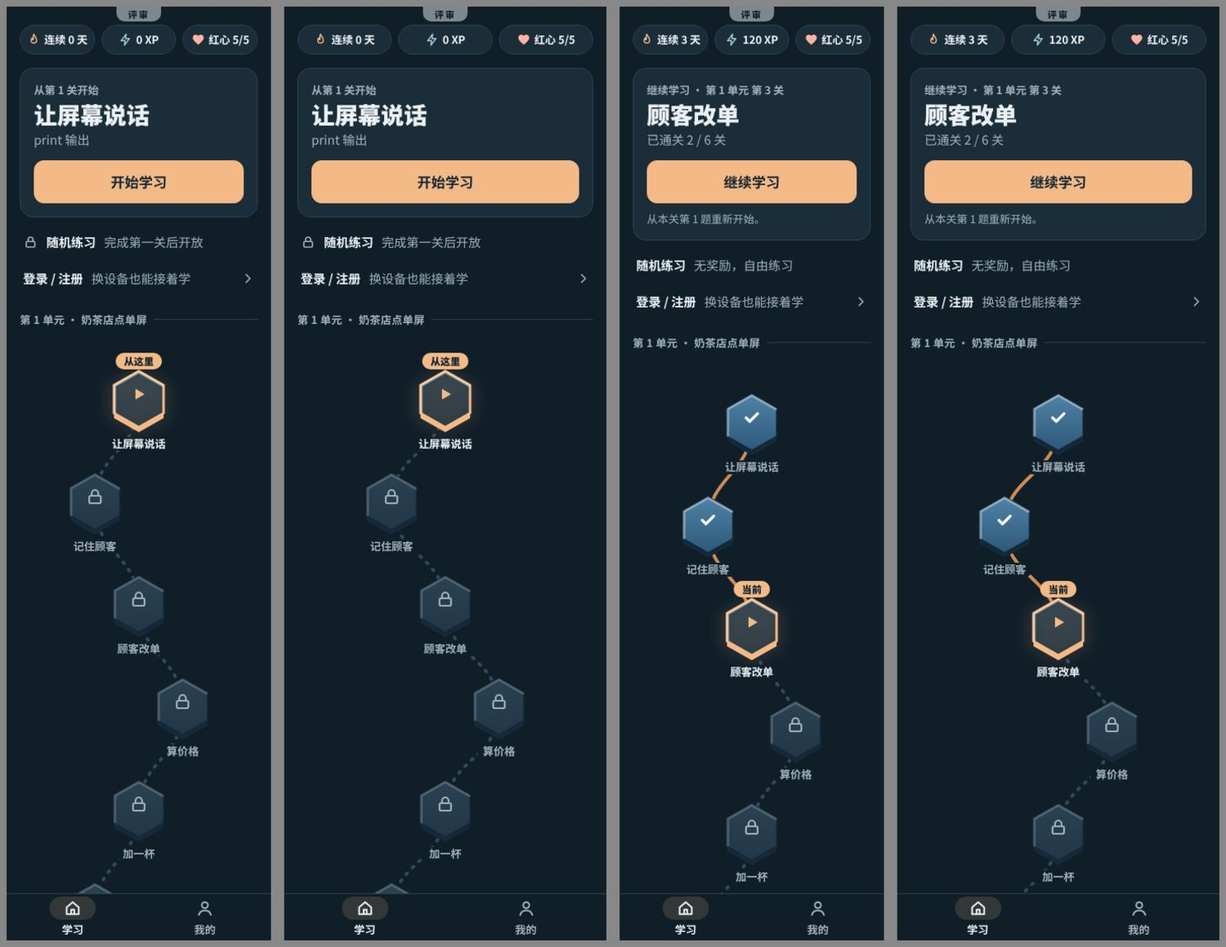
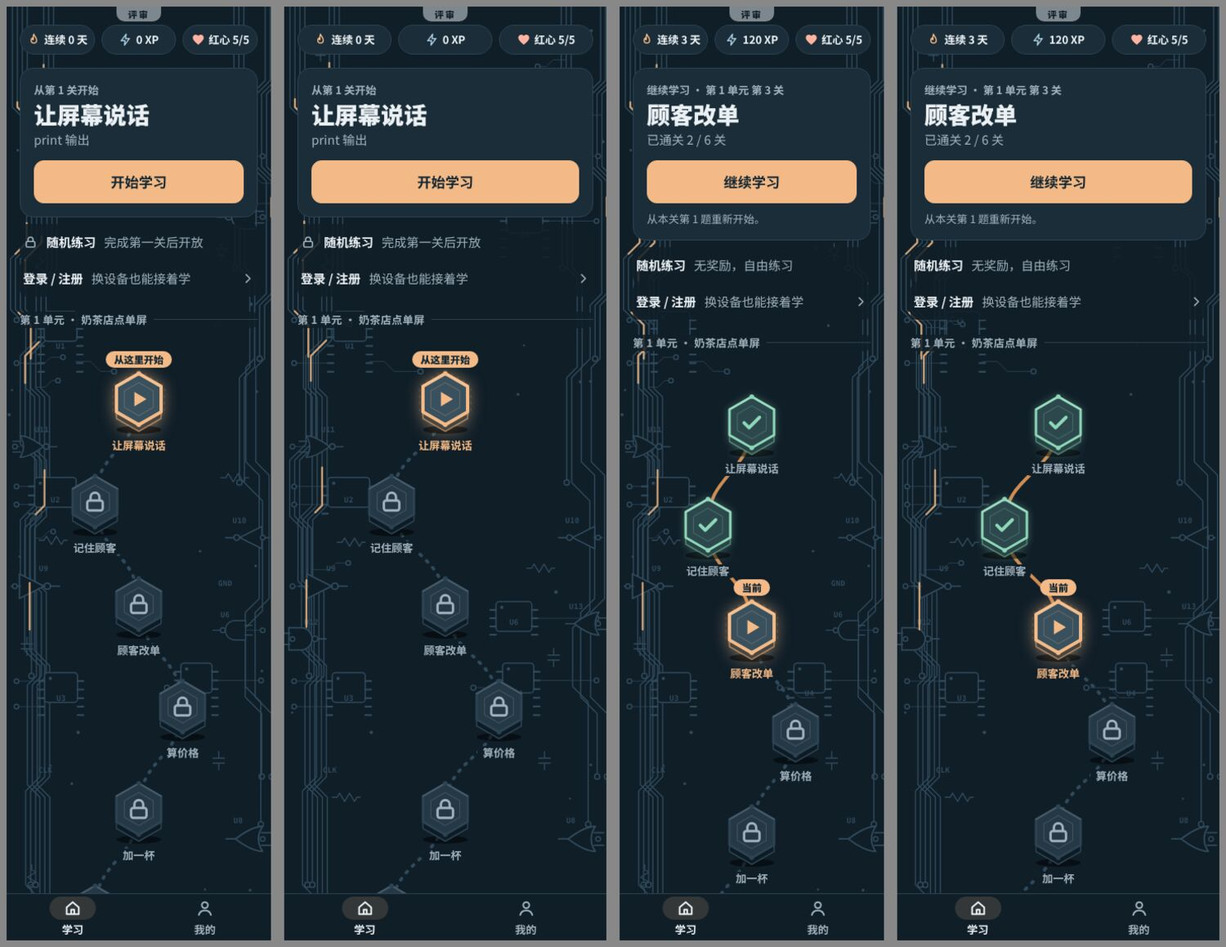
设计：流程原型采用立体六角形节点、加回并加复杂背景电路图、角色名保持小码
- 节点换成 sonnet/design-ink-3d-1 的 hexNode（投影、厚度、面、内六边形、顶边高光、焊点；当前关铜色虚线环+发光，已通关绿色发光）——老大 11-13 02:06 指定
- 背景电路图：总线束（45° 拐角）、芯片、6 种逻辑门、阻容二极管、过孔、测试点、标注、行进脉冲；课内只留淡的边缘版；减少动态下脉冲隐藏
- 角色名保持「小码」（老大 02:06：不要碎碎）；提示按钮 aria-label 与文档同步改回
- 文档新增修订记录与条目 M3/M6；拼图重出；60 项检查全过，320/390 线路对节点偏差 0px

Claude-Session: https://claude.ai/code/session_01PV3FXumWa85dHsm4VFEBLY

diff --git a/spikes/2026-11-13-flow-prototype/index.html b/spikes/2026-11-13-flow-prototype/index.html
@@ -18,6 +18,7 @@
   --hex-lock-top:#EDE9DF; --hex-lock-bot:#DCD7CA; --hex-lock-side:#C9C3B4;
   --hex-cur-top:#FFFDF8; --hex-cur-bot:#F5E6D8; --hex-cur-side:#B75532;
   --glow:rgba(183,85,50,.55);
+  --side:#CFC8B8; --hi:rgba(255,255,255,.85); --shadow:rgba(23,43,58,.16);
 }
 :root[data-theme=dark] {
   --bg:#101E28; --card:#1A2D39; --card2:#223747; --line:#2C4352; --fg:#EAF0F3; --muted:#9FB1BC;
@@ -29,6 +30,7 @@
   --hex-lock-top:#2A4252; --hex-lock-bot:#223747; --hex-lock-side:#16293A;
   --hex-cur-top:#22394A; --hex-cur-bot:#182C3B; --hex-cur-side:#F3BA87;
   --glow:rgba(243,186,135,.6);
+  --side:#0D1B24; --hi:rgba(255,255,255,.14); --shadow:rgba(0,0,0,.5);
 }
 * { box-sizing:border-box; -webkit-tap-highlight-color:transparent; }
 html,body { margin:0; height:100%; background:var(--bg); color:var(--fg); font:17px/1.5 "PingFang SC","Noto Sans CJK SC",system-ui,sans-serif; }
@@ -74,16 +76,11 @@ html.rm .btn:active:not(:disabled) { transform:none; outline:3px solid var(--cop
 .path { position:relative; margin:0 auto; width:390px; max-width:100%; }
 .path svg.trace { position:absolute; left:0; top:0; width:100%; height:100%; pointer-events:none; }
 .path svg.trace path { vector-effect:non-scaling-stroke; }
-.node { position:absolute; width:76px; transform:translateX(-50%); display:flex; flex-direction:column; align-items:center; gap:4px; text-align:center; }
+.node { position:absolute; width:84px; transform:translateX(-50%); display:flex; flex-direction:column; align-items:center; gap:4px; text-align:center; }
 .node .lab { background:var(--bg); padding:0 6px; border-radius:6px; font-size:13px; font-weight:700; line-height:1.3; white-space:nowrap; }
 .node.locked .lab { color:var(--muted); font-weight:600; }
 .node.done .lab { color:var(--muted); }
-.node .hexwrap { position:relative; width:64px; height:78px; display:grid; place-items:center; }
-.node .glow { position:absolute; left:-12px; top:-8px; width:88px; height:94px; opacity:.5; filter:blur(9px); pointer-events:none; }
-.node .glow polygon { fill:var(--glow); }
-html:not(.rm) .node.current .glow { animation:breathe 2.4s ease-in-out infinite; }
-@keyframes breathe { 50% { opacity:.18; } }
-.node .tag-now { position:absolute; top:-20px; left:50%; transform:translateX(-50%); font-size:12px; font-weight:800; padding:1px 10px; border-radius:10px; background:var(--copper); color:var(--on-copper); white-space:nowrap; }
+.node .tag-now { position:absolute; top:-22px; left:50%; transform:translateX(-50%); z-index:2; font-size:12px; font-weight:800; padding:1px 10px; border-radius:10px; background:var(--copper); color:var(--on-copper); white-space:nowrap; }
 .tabbar { flex:none; display:flex; border-top:1.5px solid var(--line); background:var(--bg); padding-bottom:env(safe-area-inset-bottom); }
 .tab { flex:1; height:56px; display:flex; flex-direction:column; align-items:center; justify-content:center; gap:2px; font-size:13px; font-weight:600; color:var(--muted); }
 .tab.on { color:var(--fg); }
@@ -141,6 +138,54 @@ html:not(.rm) .fb-xp { animation:xp .18s ease-out .12s backwards; }
 .feedbar .heartline { display:flex; align-items:center; gap:6px; color:var(--bad); font-weight:600; }
 .feedbar .btn { margin-top:12px; }
 
+
+/* ===== 立体六角形关卡节点（取自 sonnet/design-ink-3d-1 的 hexNode：投影 + 厚度 + 面 + 内六边形 + 顶边高光 + 上下焊点） ===== */
+.node { color:var(--muted); }
+.node .hexslot { position:relative; width:72px; height:80px; }
+.hexnode { display:block; overflow:visible; }
+.hex-shadow { fill:var(--shadow); }
+.hex-side { fill:var(--side); stroke:var(--line); stroke-width:1.5; stroke-linejoin:round; }
+.hex-body { fill:var(--card); stroke:var(--line); stroke-width:3; stroke-linejoin:round; }
+.hex-facet { fill:none; stroke:currentColor; stroke-opacity:.22; stroke-width:1.2; stroke-linejoin:round; }
+.hex-hi { fill:none; stroke:var(--hi); stroke-width:1.8; stroke-linecap:round; stroke-linejoin:round; }
+.hex-pad { fill:var(--line); }
+.hex-ring { fill:none; stroke:var(--copper); stroke-width:2; stroke-linejoin:round; stroke-dasharray:3 5; opacity:.35; }
+html:not(.rm) .hex-ring { animation:ring 2.4s ease-in-out infinite; }
+@keyframes ring { 50% { opacity:.1; } }
+.node.locked .hex-body { fill:var(--locked); }
+.node.done { color:var(--ok); }
+.node.done .hex-body { stroke:var(--ok); fill:color-mix(in srgb,var(--ok) 16%,var(--card)); }
+.node.done .hex-side { fill:color-mix(in srgb,var(--ok) 22%,var(--side)); stroke:var(--ok); stroke-opacity:.45; }
+.node.done .hex-pad { fill:var(--ok); }
+.node.done .hexnode { filter:drop-shadow(0 0 5px color-mix(in srgb,var(--ok) 35%,transparent)); }
+.node.current { color:var(--copper-text); }
+.node.current .hex-body { stroke:var(--copper); stroke-width:4; fill:color-mix(in srgb,var(--primary) 22%,var(--card)); }
+.node.current .hex-side { fill:color-mix(in srgb,var(--copper) 26%,var(--side)); stroke:var(--copper); stroke-opacity:.55; }
+.node.current .hex-pad { fill:var(--copper); }
+.node.current .hexnode { filter:drop-shadow(0 0 9px color-mix(in srgb,var(--copper) 55%,transparent)); }
+.node:active .hexnode { transform:scale(.97); }
+html.rm .node:active .hexnode { transform:none; filter:brightness(1.12); }
+
+/* ===== 背景电路图：固定在底层，随页面类型切换，不随内容滚动 ===== */
+#bg { position:absolute; inset:0; z-index:0; pointer-events:none; overflow:hidden; }
+#bg svg { width:100%; height:100%; display:block; }
+#view { position:relative; z-index:1; flex:1; min-height:0; display:flex; flex-direction:column; }
+.cb .trace { fill:none; stroke:var(--trace); stroke-width:1.4; stroke-linecap:round; stroke-linejoin:round; }
+.cb .trace.thin { stroke-width:1; opacity:.75; }
+.cb .pad { fill:var(--bg); stroke:var(--trace); stroke-width:1.5; }
+.cb .dot { fill:var(--trace); }
+.cb .chip { fill:var(--bg); stroke:var(--trace); stroke-width:1.5; stroke-linejoin:round; }
+.cb .pin { fill:none; stroke:var(--trace); stroke-width:2.2; stroke-linecap:round; }
+.cb .gate { fill:var(--bg); stroke:var(--trace); stroke-width:1.5; stroke-linejoin:round; stroke-linecap:round; }
+.cb .part { fill:none; stroke:var(--trace); stroke-width:1.4; stroke-linecap:round; stroke-linejoin:round; }
+.cb text { fill:var(--trace); font:700 9px ui-monospace,Menlo,monospace; letter-spacing:.3px; }
+.cb .pulse { fill:none; stroke:var(--copper); stroke-width:2.4; stroke-linecap:round; stroke-linejoin:round; stroke-dasharray:5 95; stroke-dashoffset:5; opacity:.8; animation:flow 7s linear infinite; }
+@keyframes flow { from { stroke-dashoffset:5; } to { stroke-dashoffset:-95; } }
+html.rm .cb .pulse { display:none; }
+.bg-paused .cb .pulse, .bg-paused .hex-ring { animation-play-state:paused; }
+.row, .unit { background:color-mix(in srgb,var(--bg) 86%,transparent); border-radius:8px; }
+.unit::after { background:var(--line); }
+
 /* ---------- 通关占位 ---------- */
 .done-page { align-items:center; justify-content:center; text-align:center; gap:14px; padding:24px; }
 .done-page h2 { margin:0; font-size:28px; font-weight:800; }
@@ -181,10 +226,11 @@ html.show-tags [data-tag=fixed]::after { background:var(--ok); color:var(--bg); 
 /* ===== 评审条目：状态 = 当前仍存在 / 已修复 / 本次提案（对照 main 92f57d9） ===== */
 const ITEMS = [
   { id:"W1", st:"proposal", t:"欢迎页压成一屏", d:"现状 3 屏、点 3 次才到地图；这里 1 屏 1 个主按钮。" },
-  { id:"W2", st:"proposal", t:"欢迎页文案", d:"「在手机上学习 Python」「每天几分钟，点选闯关」。不写「全程点选」「每关约 2 分钟」。角色名统一为「碎碎」（改名已批；正式版源码里仍是「小码」，落地时要一起改）。" },
+  { id:"W2", st:"proposal", t:"欢迎页文案", d:"「在手机上学习 Python」「每天几分钟，点选闯关」。不写「全程点选」「每关约 2 分钟」。角色名保持「小码」（老大 11-13 02:06 明确：不改名；与 #35 / SPEC 里「小码→碎碎」那条决策冲突，需产品官更正）。" },
   { id:"M1", st:"proposal", t:"地图「下一步」主卡", d:"新用户「开始学习」，老用户关名 +「继续学习」。关内位置 main 不保存（退出后从第 1 题重来），所以继续 = 当前关第 1 题；关内恢复未模拟。" },
   { id:"M2", st:"proposal", t:"随机练习 / 登录降级成一行", d:"现状：随机练习是吸顶整宽灰块，登录是虚线整宽卡。" },
-  { id:"M3", st:"exists", t:"六边形路径（保留）", d:"沿用老大 11-04 方向；本次提案只加厚度、高光、当前关通电发光。" },
+  { id:"M3", st:"proposal", t:"立体六角形关卡节点", d:"老大 11-13 02:06 指定用截图里的这个：取自分支 sonnet/design-ink-3d-1 的 hexNode（投影、厚度、面、内六边形、顶边高光、上下焊点；当前关铜色虚线环 + 发光，已通关绿色发光）。main 现在是扁平六边形。" },
+  { id:"M6", st:"proposal", t:"背景电路图（加回并加复杂）", d:"首版原型漏掉了背景电路，已加回：每侧 2 束总线（3–4 根平行线、45° 拐角）、芯片（排针、1 脚点、位号）、6 种逻辑门、电阻 / 电容 / 二极管、过孔与测试点、VCC / GND / CLK 标注、行进脉冲（减少动态下隐藏）。布局种子固定，随宽度生成；固定在底层，不随内容滚动；课内只留很淡的边缘版。" },
   { id:"M4", st:"proposal", t:"顶栏带单位", d:"「连续 0 天」「0 XP」「红心 5/5」。现状只有图标 + 数字，说明要长按/悬停才有。" },
   { id:"M5", st:"proposal", t:"单元标题降亮度和面积", d:"现状整块实色单元卡；这里改成一行小字分隔线。" },
   { id:"Q1", st:"fixed", t:"选项竖排整宽、代码不折行", d:"main 的 #60：.choices.code 单列 + 横向滚动，原型沿用，不算新成果。" },
@@ -195,7 +241,7 @@ const ITEMS = [
   { id:"F3", st:"proposal", t:"连对提示不遮挡", d:"连对 ≥3 时在反馈头里加一枚「连对 N」小标，行内，不浮层。" },
   { id:"F4", st:"proposal", t:"答错措辞「差一点，再看看」", d:"现状标题「不对哦」。" },
   { id:"F5", st:"exists", t:"答错讲原因 + 正确答案 + 红心", d:"main 已有：错因（why）、「正确答案」、「红心 -1（剩 N 颗），这题稍后再做一次」。原型保留，不算新成果。" },
-  { id:"F6", st:"proposal", t:"答错只留一种主要动效", d:"只留选中卡抖 2 次（±5px，220ms）；碎碎只换静态表情；红心直接更新数值，不再缩放（正式版现有红心缩放动画）。现状卡抖 3px 160ms。" },
+  { id:"F6", st:"proposal", t:"答错只留一种主要动效", d:"只留选中卡抖 2 次（±5px，220ms）；小码只换静态表情；红心直接更新数值，不再缩放（正式版现有红心缩放动画）。现状卡抖 3px 160ms。" },
   { id:"F7", st:"proposal", t:"继续按钮统一铜橙", d:"现状答错时「继续」是红色危险按钮；这里改铜橙，反馈色只用在面板描边和标题。" },
   { id:"R1", st:"exists", t:"减少动态效果", d:"main 已有 prefers-reduced-motion。原型：开启后取消位移、缩放、飞行、发光呼吸、高光扫过、按钮按下的 1px 下移（按下改用描边表示），只保留颜色变化。" },
 ];
@@ -223,17 +269,147 @@ function mascot(size=52, mood="happy") {
   return `<svg width="${size}" height="${size}" viewBox="0 0 100 100" aria-hidden="true"><path d="M16 14a8 8 0 0 1 8-8h46l20 20v56a8 8 0 0 1-8 8H24a8 8 0 0 1-8-8z" fill="#FFF8EC" stroke="#172B3A" stroke-width="4"/><path d="M70 6v14a6 6 0 0 0 6 6h14z" fill="#B75532"/><path d="M33 40q-6 8 0 16M67 40q6 8 0 16" fill="none" stroke="#172B3A" stroke-width="5" stroke-linecap="round"/>${mouth}</svg>`;
 }
 /* 六边形节点：厚度（下沉一层深色）+ 渐变面 + 左上高光边 + 当前关通电发光 */
-function hex(kind) {
-  const P = "32,2 62,19 62,53 32,70 2,53 2,19", P2 = "32,8 62,25 62,59 32,76 2,59 2,25";
-  const id = "g"+Math.random().toString(36).slice(2,7);
-  const icon = kind==="done" ? `<g transform="translate(20 18)" style="color:#fff">${I.check(24)}</g>` : kind==="locked" ? `<g transform="translate(20 18)" style="color:var(--muted)">${I.lock(24)}</g>` : `<g transform="translate(20 18)" style="color:var(--copper-text)">${I.play(24)}</g>`;
-  const [top,bot,side] = kind==="done" ? ["--hex-top","--hex-bot","--hex-side"] : kind==="locked" ? ["--hex-lock-top","--hex-lock-bot","--hex-lock-side"] : ["--hex-cur-top","--hex-cur-bot","--hex-cur-side"];
-  return `<svg width="64" height="78" viewBox="0 0 64 78" aria-hidden="true"><defs><linearGradient id="${id}" x1="0" y1="0" x2="0" y2="1"><stop offset="0" style="stop-color:var(${top})"/><stop offset="1" style="stop-color:var(${bot})"/></linearGradient></defs>
-  <polygon points="${P2}" style="fill:var(${side})"/>
-  <polygon points="${P}" fill="url(#${id})" style="stroke:var(${side});stroke-width:${kind==="current"?3:1.5};stroke-linejoin:round"/>
-  <polyline points="3,52 3,20 32,3.500 61,20" fill="none" style="stroke:var(--hex-hi)" stroke-width="3" stroke-linecap="round" stroke-linejoin="round" opacity="${kind==="locked"?.5:1}"/>
-  ${icon}</svg>`;
+function hexNode(kind) {
+  const ic = kind==="done" ? `<path d="m5 12.500 4.500 4.500L19 7.500" fill="none" stroke="currentColor" stroke-width="3" stroke-linecap="round" stroke-linejoin="round"/>`
+    : kind==="locked" ? `<g fill="none" stroke="currentColor" stroke-width="2.200" stroke-linecap="round" stroke-linejoin="round"><rect x="5" y="11" width="14" height="9" rx="2"/><path d="M8 11V8a4 4 0 0 1 8 0v3"/></g>`
+    : `<path d="M8 5.500v13l11-6.500z" fill="currentColor"/>`;
+  return `<svg viewBox="0 0 72 80" width="72" height="80" class="hexnode" aria-hidden="true">
+    ${kind==="current"?`<polygon points="36,1 67,19 67,53 36,71 5,53 5,19" class="hex-ring"/>`:""}
+    <ellipse cx="36" cy="73" rx="27" ry="5" class="hex-shadow"/>
+    <polygon points="9,51.5 36,67 63,51.5 63,59.5 36,75 9,59.5" class="hex-side"/>
+    <polygon points="36,5 63,20.5 63,51.5 36,67 9,51.5 9,20.5" class="hex-body"/>
+    <polygon points="36,16 53.5,26 53.5,46 36,56 18.5,46 18.5,26" class="hex-facet"/>
+    <polyline points="9,20.5 36,5 63,20.5" class="hex-hi"/>
+    <circle cx="36" cy="5" r="2.800" class="hex-pad"/><circle cx="36" cy="67" r="2.800" class="hex-pad"/>
+    <svg x="20" y="20" width="32" height="32" viewBox="0 0 24 24">${ic}</svg></svg>`;
 }
+
+/* ===== 背景电路图生成器（种子固定，布局稳定）：电源总线束 + 45° 拐角、芯片、逻辑门、电阻 / 电容 / 二极管、过孔、测试点、行进脉冲 ===== */
+function rngSeed(seed){ return ()=>{ seed|=0; seed=seed+0x6D2B79F5|0; let t=Math.imul(seed^seed>>>15,1|seed); t=(t+Math.imul(t^t>>>7,61|t))^t; return ((t^t>>>14)>>>0)/4294967296; }; }
+function circuitSVG(W, H, variant) {
+  const R = rngSeed(variant==="edge" ? 11 : 20261113), rr=(a,b)=>a+R()*(b-a), ri=(a,b)=>Math.floor(rr(a,b+1));
+  const edge = variant==="edge", M = Math.max(58, Math.min(112, W*.28));      // 左右边缘区的宽度
+  const out = [], boxes = [], pulses = [];
+  const f = n => (+n).toFixed(1);
+  const poly = pts => "M" + pts.map(p=>f(p[0])+" "+f(p[1])).join(" L");
+  const free = (x,y,w,h) => !boxes.some(b => x < b[0]+b[2]+6 && x+w+6 > b[0] && y < b[1]+b[3]+6 && y+h+6 > b[1]);
+  const claim = (x,y,w,h) => boxes.push([x,y,w,h]);
+  const mirror = side => x => side===0 ? x : W - x;
+  const refN = (()=>{ let n=0; return ()=>"U"+(++n); })();
+
+  /* 1) 总线束：每侧 2 束（边缘版 1 束），每束 3–4 根平行线，竖直走线、45° 斜拐；各线在不同高度收尾于焊盘 */
+  const lanes = [];  // 供后续支线接入：{side, pts}
+  for (const side of [0,1]) {
+    const bundles = edge ? [{x:7,n:2}] : [{x:7,n:4},{x:M*.50,n:3}];
+    bundles.forEach((bd,bi)=>{
+      const sp = 6, span = (bd.n-1)*sp, lim = M - span - 8;
+      let x = bd.x, y = -10; const base = [[x,y]];
+      while (y < H + 10) {
+        y += rr(60,150); base.push([x,y]);
+        let dx = (R()<.5?-1:1) * rr(10,22); if (x+dx < 4 || x+dx > lim) dx = -dx; if (x+dx < 4 || x+dx > lim) dx = 0;
+        if (dx) { x += dx; y += Math.abs(dx); base.push([x,y]); }
+      }
+      for (let k=0;k<bd.n;k++) {
+        const yEnd = R()<.35 ? H+20 : rr(H*.25, H*.95);
+        const pts = []; for (const p of base) { pts.push([mirror(side)(p[0]+k*sp*(side?-1:1)), p[1]]); if (p[1] >= yEnd) break; }
+        const last = pts[pts.length-1];
+        out.push(`<path class="trace" d="${poly(pts)}"/>`);
+        if (last[1] < H) out.push(`<circle class="pad" cx="${f(last[0])}" cy="${f(last[1])}" r="3.200"/>`);
+        lanes.push({side, pts});
+        if (k===1 && !edge) pulses.push(poly(pts));
+      }
+    });
+  }
+  if (edge) {
+    // 边缘版：再补几个过孔和一根脉冲，保持很淡
+    for (let i=0;i<7;i++) out.push(`<circle class="dot" cx="${f(R()<.5?rr(3,18):W-rr(3,18))}" cy="${f(rr(20,H-20))}" r="1.800"/>`);
+    return { svg:`<g class="cb">${out.join("")}${pulses.slice(0,3).map((d,i)=>`<path class="pulse" pathLength="100" d="${d}" style="animation-duration:${(8+i*2)}s;animation-delay:-${i*3}s"/>`).join("")}</g>`, n:out.length };
+  }
+
+  /* 2) 芯片（DIP）：随机落位在两侧边缘区，不重叠；左右排针，带「1 脚」点和位号；部分针脚拉线接到最近的总线 */
+  const chipPins = [];
+  for (let t=0, placed=0; t<90 && placed<(W<340?4:6); t++) {
+    const w = rr(34,52), h = rr(46,92), side = R()<.5?0:1;
+    const x = side===0 ? rr(M*.52, M-w-6) : W - rr(M*.52, M-6) ;
+    const x0 = side===0 ? x : x - w, y0 = rr(70, H-h-90);
+    if (!free(x0-8,y0,w+16,h)) continue; claim(x0-8,y0,w+16,h); placed++;
+    const n = Math.max(3, Math.floor(h/11)), step = h/(n+1);
+    out.push(`<rect class="chip" x="${f(x0)}" y="${f(y0)}" width="${f(w)}" height="${f(h)}" rx="4"/>`);
+    out.push(`<circle class="dot" cx="${f(x0+7)}" cy="${f(y0+7)}" r="2"/>`);
+    out.push(`<text x="${f(x0+w/2)}" y="${f(y0+h/2+3)}" text-anchor="middle">${refN()}</text>`);
+    for (let i=1;i<=n;i++) { const yy=y0+i*step; out.push(`<path class="pin" d="M${f(x0-7)} ${f(yy)}H${f(x0)}M${f(x0+w)} ${f(yy)}H${f(x0+w+7)}"/>`); }
+    const wireTo = (xFrom, dir, yy) => { const xTo = dir<0 ? 12 : W-12; out.push(`<path class="trace thin" d="M${f(xFrom)} ${f(yy)}H${f(xTo)}"/><circle class="pad" cx="${f(xTo)}" cy="${f(yy)}" r="2.800"/>`); };
+    if (side===0) { wireTo(x0-7, -1, y0+step*1); if (n>3) wireTo(x0-7, -1, y0+step*(n-1)); } else { wireTo(x0+w+7, 1, y0+step*2); }
+    chipPins.push([side===0?x0+w+7:x0-7, y0+step*2, side]);
+  }
+
+  /* 3) 逻辑门：AND / OR / NOT / NAND / NOR / XOR，带输入输出引线和位号，可水平翻转 */
+  const kinds = ["and","or","not","nand","nor","xor"];
+  for (let t=0, placed=0; t<120 && placed<7; t++) {
+    const kind = kinds[ri(0,kinds.length-1)], sc = rr(.95,1.3), gw = 34*sc, gh = 24*sc, side = R()<.5?0:1;
+    const x = side===0 ? rr(8, M-gw-14) : W - rr(gw+14, M-8), y = rr(60, H-gh-80);
+    if (!free(x-12,y-10,gw+24,gh+20)) continue; claim(x-12,y-10,gw+24,gh+20); placed++;
+    const flip = side===1, bubble = kind==="nand"||kind==="nor"||kind==="not";
+    const body = kind==="and"||kind==="nand" ? "M0 0H13a12 12 0 0 1 0 24H0z" : kind==="not" ? "M0 0L24 12L0 24z" : "M0 0Q10 0 26 12Q10 24 0 24Q8 12 0 0z";
+    const ow = kind==="not" ? 24 : kind==="and"||kind==="nand" ? 25 : 26;
+    const ins = kind==="not" ? [12] : [6,18];
+    let g = `<g transform="translate(${f(flip?x+gw+8:x-8)} ${f(y)}) scale(${flip?-sc:sc} ${sc})">`;
+    g += `<path class="gate" d="${body}"/>`;
+    if (kind==="xor") g += `<path class="part" d="M-4.500 0Q3.500 12 -4.500 24"/>`;
+    if (bubble) g += `<circle class="gate" cx="${ow+3.2}" cy="12" r="3"/>`;
+    for (const yy of ins) g += `<path class="trace" d="M-8 ${yy}H${kind==="xor"?-1:1}"/>`;
+    g += `<path class="trace" d="M${ow+(bubble?6.2:0)} 12H${ow+(bubble?6.2:0)+9}"/>`;
+    g += `</g>`;
+    out.push(g);
+    out.push(`<text x="${f(x+gw/2)}" y="${f(y-4)}" text-anchor="middle">${refN()}</text>`);
+    // 引线接到边缘的过孔
+    const yy = y + gh/2, edgeX = side===0 ? 10 : W-10;
+    out.push(`<path class="trace thin" d="M${f(side===0?x-8:x+gw+8)} ${f(yy)}H${f(edgeX)}"/><circle class="pad" cx="${f(edgeX)}" cy="${f(yy)}" r="2.800"/>`);
+  }
+
+  /* 4) 阻容元件：横向支线上的电阻、电容、二极管；有的是竖放 */
+  for (let t=0, placed=0; t<80 && placed<9; t++) {
+    const side = R()<.5?0:1, y = rr(40,H-40), x = side===0 ? rr(14, M-34) : W - rr(40, M), kind = ["r","c","d"][ri(0,2)];
+    const vertical = R()<.4, w = kind==="r" ? 34 : 22, bw = vertical ? 12 : w, bh = vertical ? w : 12;
+    if (!free(x-4,y-bh/2,bw+8,bh+8)) continue; claim(x-4,y-bh/2,bw+8,bh+8); placed++;
+    let d = "";
+    if (kind==="r") d = "M0 0h6l3 -5 6 10 6 -10 6 10 3 -5h4";
+    else if (kind==="c") d = "M0 0h8M8 -7v14M14 -7v14M14 0h8";
+    else d = "M0 0h6M6 -6v12l9 -6zM15 -6v12M15 0h7";
+    out.push(`<g transform="translate(${f(vertical?x+6:x)} ${f(vertical?y-w/2:y)}) ${vertical?"rotate(90)":""}"><path class="part" d="${d}"/></g>`);
+  }
+
+  /* 5) 横向走线 + 过孔网：从总线接出的短支线，带 45° 转角，末端是焊盘 / 测试点 */
+  for (const L of lanes.filter((_,i)=>i%2===0).slice(0,12)) {
+    const p = L.pts[Math.floor(R()*(L.pts.length-1))], q = L.pts[Math.min(L.pts.length-1, Math.floor(L.pts.indexOf(p)+1))];
+    if (!p || !q || Math.abs(q[0]-p[0])>1) continue;               // 只在竖直段上接支线
+    const y = rr(p[1], q[1]), dir = L.side===0 ? 1 : -1, len = rr(14, M*.55);
+    const x1 = p[0]+dir*len*.6, x2 = x1+dir*8, y2 = y+(R()<.5?-8:8), x3 = x2+dir*len*.4;
+    out.push(`<path class="trace thin" d="M${f(p[0])} ${f(y)}H${f(x1)}L${f(x2)} ${f(y2)}H${f(x3)}"/><circle class="pad" cx="${f(x3)}" cy="${f(y2)}" r="2.800"/>`);
+  }
+  for (let i=0;i<26;i++) { const x = R()<.5 ? rr(3, M) : W - rr(3, M), y = rr(10, H-10); if (free(x-3,y-3,6,6)) out.push(`<circle class="dot" cx="${f(x)}" cy="${f(y)}" r="${f(rr(1.200,2.200))}"/>`); }
+  // 测试点阵列：2×3 小焊盘
+  for (const side of [0,1]) { const bx = side===0 ? rr(M*.55, M-20) : W - rr(M*.55, M-8), by = rr(H*.55, H-110); if (!free(bx-4,by-4,28,22)) continue; claim(bx-4,by-4,28,22);
+    for (let a=0;a<3;a++) for (let b=0;b<2;b++) out.push(`<circle class="pad" cx="${f(bx+a*10)}" cy="${f(by+b*10)}" r="2.600"/>`);
+    out.push(`<text x="${f(bx)}" y="${f(by+28)}">TP${side+1}</text>`); }
+  // 电源 / 信号标注
+  for (const [t,fx,fy] of [["VCC",.06,.30],["GND",.80,.62],["CLK",.12,.82],["D0",.84,.22],["RST",.78,.90]]) { const x = W*fx, y = H*fy; if (free(x-4,y-10,34,14)) { claim(x-4,y-10,34,14); out.push(`<text x="${f(x)}" y="${f(y)}">${t}</text>`); } }
+  // 芯片间的连线脉冲：取芯片侧的若干总线 + 一条跨中间区域很淡的长线
+  for (const L of lanes.filter(l=>l.pts.length>3).slice(0,9)) pulses.push(poly(L.pts));
+  out.push(`<path class="trace thin" d="M${f(M-6)} ${f(H*.38)}H${f(M+12)}L${f(M+24)} ${f(H*.38+12)}H${f(W/2-30)}" opacity=".5"/><circle class="pad" cx="${f(W/2-30)}" cy="${f(H*.38+12)}" r="3"/>`);
+  out.push(`<path class="trace thin" d="M${f(W-M+6)} ${f(H*.74)}H${f(W-M-12)}L${f(W-M-24)} ${f(H*.74-12)}H${f(W/2+34)}" opacity=".5"/><circle class="pad" cx="${f(W/2+34)}" cy="${f(H*.74-12)}" r="3"/>`);
+  return { svg:`<g class="cb">${out.join("")}${pulses.slice(0,10).map((d,i)=>`<path class="pulse" pathLength="100" d="${d}" style="animation-duration:${(5.5+(i*1.7)%5).toFixed(1)}s;animation-delay:-${(i*2.3).toFixed(1)}s"/>`).join("")}</g>`, n:out.length };
+}
+let bgKey = "";
+function setBg(variant) {
+  const W = Math.round(host.clientWidth), H = Math.round(host.clientHeight), key = variant+W+"x"+H;
+  if (key === bgKey) return; bgKey = key;
+  const c = circuitSVG(W, H, variant);
+  $("#bg").innerHTML = `<svg viewBox="0 0 ${W} ${H}" preserveAspectRatio="none" aria-hidden="true" focusable="false">${c.svg}</svg>`;
+  window.__circuitCount = c.n;
+}
+addEventListener("resize", () => { clearTimeout(window.__rz); window.__rz = setTimeout(()=>{ bgKey=""; setBg(S.screen==="lesson"?"edge":"full"); }, 150); });
+document.addEventListener("visibilitychange", () => document.documentElement.classList.toggle("bg-paused", document.hidden));
 
 /* ===== 题目（取自 content/unit1.json 的 U1L1，原文） ===== */
 const Q = {
@@ -261,11 +437,11 @@ matchMedia("(prefers-reduced-motion: reduce)").addEventListener?.("change", appl
 let tt; function toast(m){ const e=$("#toast"); e.textContent=m; e.classList.add("on"); clearTimeout(tt); tt=setTimeout(()=>e.classList.remove("on"),1800); }
 
 /* ===== 渲染 ===== */
-const app = $("#app");
+const host = $("#app"); host.innerHTML = '<div id="bg" aria-hidden="true"></div><div id="view"></div>'; const app = $("#view");
 function go(screen) { S.ver++; S.checking = false; S.screen = screen; render(); }
 function render() {
   applyEnv();
-  const f = { welcome, map, lesson, done }[S.screen]; app.innerHTML = ""; f();
+  const f = { welcome, map, lesson, done }[S.screen]; app.innerHTML = ""; setBg(S.screen==="lesson"?"edge":"full"); f();
 }
 function el(html) { const t=document.createElement("template"); t.innerHTML=html.trim(); return t.content.firstChild; }
 
@@ -291,12 +467,12 @@ function map() {
     <button class="row" id="prac">${old?"":`<span style="color:var(--muted)">${I.lock(18)}</span>`}<b>随机练习</b><span>${old?"无奖励，自由练习":"完成第一关后开放"}</span><span class="sp"></span></button>
     <button class="row" id="log"><b>登录 / 注册</b><span>换设备也能接着学</span><span class="sp"></span>${I.chev(16)}</button></div>`;
   const xs = [195,130,195,260,195,130], dy = 124, y0 = 50, H = y0 + dy*5 + 130;
-  const pts = xs.map((x,i)=>[x, y0+i*dy+38]);
+  const pts = xs.map((x,i)=>[x, y0+i*dy+36]);
   const seg = (a,b)=>{ const m=(a[1]+b[1])/2; return `C ${a[0]} ${m}, ${b[0]} ${m}, ${b[0]} ${b[1]}`; };
   let full = `M ${pts[0][0]} ${pts[0][1]}`, lit = full;
   for (let i=1;i<pts.length;i++){ full += " "+seg(pts[i-1],pts[i]); if (i<=curIdx) lit += " "+seg(pts[i-1],pts[i]); }
   const nodes = LESSONS.map((n,i)=>{ const k = i<curIdx?"done":i===curIdx?"current":"locked";
-    return `<button class="node ${k}" data-i="${i}" style="left:${(xs[i]/390*100).toFixed(2)}%;top:${y0+i*dy}px" aria-label="${n}（${k==="done"?"已通关":k==="current"?"当前关":"未解锁"}）"><div class="hexwrap">${k==="current"?`<svg class="glow" viewBox="0 0 88 94"><polygon points="44,6 82,26 82,68 44,88 6,68 6,26"/></svg>`:""}${hex(k)}${k==="current"?`<span class="tag-now">${old?"当前":"从这里"}</span>`:""}</div><span class="lab">${n}</span></button>`; }).join("");
+    return `<button class="node ${k}" data-i="${i}" style="left:${(xs[i]/390*100).toFixed(2)}%;top:${y0+i*dy}px" aria-label="${n}（${k==="done"?"已通关":k==="current"?"当前关":"未解锁"}）"><div class="hexslot">${hexNode(k)}${k==="current"?`<span class="tag-now">${old?"当前":"从这里开始"}</span>`:""}</div><span class="lab">${n}</span></button>`; }).join("");
   const s = el(`<div class="screen"><div class="scroll">${hud}${hero}${rows}
     <div class="unit"${tagAttr("M5")}>第 1 单元 · 奶茶店点单屏</div>
     <div class="path" style="height:${H}px"${tagAttr("M3")}><svg class="trace" viewBox="0 0 390 ${H}" preserveAspectRatio="none" aria-hidden="true">
@@ -326,7 +502,7 @@ function lesson() {
     return `<button class="${cls}" data-i="${i}" ${fb?"disabled":""} aria-label="选项 ${"ABC"[i]}：${o.t.replace(/\n/g," 换行 ")}"><span class="abc">${"ABC"[i]}</span><span class="opt"><pre>${esc(o.t)}</pre></span><span class="fade" aria-hidden="true">›</span></button>`; }).join("");
   const code = q.code ? `<div class="code"><div class="ln">${q.code.split("\n").map((_,i)=>i+1).join("\n").replace(/\n/g,"<br>")}</div><pre>${hl(q.code)}</pre></div>` : "";
   const mood = fb && !fb.ok ? "care" : "happy";
-  const foot = fb ? feedbar() : `<div class="lessonfoot"><button class="mascot" id="hint" aria-label="让碎碎给个提示">${mascot(40, mood)}</button><button class="btn primary" id="check" ${S.sel==null||S.checking?"disabled":""}${tagAttr("Q3")}>${S.checking?"检查中":"检查"}</button></div>`;
+  const foot = fb ? feedbar() : `<div class="lessonfoot"><button class="mascot" id="hint" aria-label="让小码给个提示">${mascot(40, mood)}</button><button class="btn primary" id="check" ${S.sel==null||S.checking?"disabled":""}${tagAttr("Q3")}>${S.checking?"检查中":"检查"}</button></div>`;
   const s = el(`<div class="screen"><header class="lessonbar"><button class="icon-btn" id="x" aria-label="退出本关">${I.close()}</button>
     <div class="progress" role="progressbar" aria-valuenow="${pct}" aria-valuemin="0" aria-valuemax="100"><div class="fill ${S.sweepNow?"sweep":""}" style="width:${Math.max(4,prev)}%"${tagAttr("F1")}></div></div>
     <span class="hearts ${S.lostNow?"lost":""}" aria-label="红心 ${S.hearts}">${I.heart(22)}${S.hearts}</span></header>
@@ -343,7 +519,7 @@ function lesson() {
   const c=$("#check",s); if (c) c.onclick=()=>check(key);
   const cont=$("#cont",s); if (cont) cont.onclick=next;
 }
-function lesson_re(){ const sc=$(".scroll",app)?.scrollTop||0; app.innerHTML=""; lesson(); const n=$(".scroll",app); if(n) n.scrollTop=sc; }
+function lesson_re(){ setBg("edge"); const sc=$(".scroll",app)?.scrollTop||0; app.innerHTML=""; lesson(); const n=$(".scroll",app); if(n) n.scrollTop=sc; }
 function check(key) {
   const q=Q[key], o=q.opts[S.sel], ok=!!o.ok;
   S.prevPct = Math.round(S.solved / S.total * 100);

diff --git a/docs/design/flow-prototype-2026-11-13.md b/docs/design/flow-prototype-2026-11-13.md
@@ -25,10 +25,11 @@
 | 编号 | 状态 | 项 | 说明 |
 |---|---|---|---|
 | W1 | **本次提案** | 欢迎页压成一屏 | 现状 3 屏、点 3 次才到地图；这里 1 屏 1 个主按钮。 |
-| W2 | **本次提案** | 欢迎页文案 | 「在手机上学习 Python」「每天几分钟，点选闯关」。不写「全程点选」「每关约 2 分钟」。角色名统一为「碎碎」（改名已批；正式版源码里仍是「小码」，落地时要一起改）。 |
+| W2 | **本次提案** | 欢迎页文案 | 「在手机上学习 Python」「每天几分钟，点选闯关」。不写「全程点选」「每关约 2 分钟」。角色名保持「小码」（老大 11-13 02:06 明确：不改名；与 #35 / SPEC 里「小码→碎碎」那条决策冲突，需产品官更正）。 |
 | M1 | **本次提案** | 地图「下一步」主卡 | 新用户「开始学习」，老用户关名 +「继续学习」。关内位置 main 不保存（退出后从第 1 题重来），所以继续 = 当前关第 1 题；关内恢复未模拟。 |
 | M2 | **本次提案** | 随机练习 / 登录降级成一行 | 现状：随机练习是吸顶整宽灰块，登录是虚线整宽卡。 |
-| M3 | 当前仍存在 | 六边形路径（保留） | 沿用老大 11-04 方向；本次提案只加厚度、高光、当前关通电发光。 |
+| M3 | **本次提案** | 立体六角形关卡节点 | 老大 11-13 02:06 指定用截图里的这个：取自分支 sonnet/design-ink-3d-1 的 hexNode（投影、厚度、面、内六边形、顶边高光、上下焊点；当前关铜色虚线环 + 发光，已通关绿色发光）。main 现在是扁平六边形。 |
+| M6 | **本次提案** | 背景电路图（加回并加复杂） | 首版原型漏掉了背景电路，已加回：每侧 2 束总线（3–4 根平行线、45° 拐角）、芯片（排针、1 脚点、位号）、6 种逻辑门、电阻 / 电容 / 二极管、过孔与测试点、VCC / GND / CLK 标注、行进脉冲（减少动态下隐藏）。布局种子固定，随宽度生成；固定在底层，不随内容滚动；课内只留很淡的边缘版。 |
 | M4 | **本次提案** | 顶栏带单位 | 「连续 0 天」「0 XP」「红心 5/5」。现状只有图标 + 数字，说明要长按/悬停才有。 |
 | M5 | **本次提案** | 单元标题降亮度和面积 | 现状整块实色单元卡；这里改成一行小字分隔线。 |
 | Q1 | 已修复 | 选项竖排整宽、代码不折行 | main 的 #60：.choices.code 单列 + 横向滚动，原型沿用，不算新成果。 |
@@ -39,7 +40,7 @@
 | F3 | **本次提案** | 连对提示不遮挡 | 连对 ≥3 时在反馈头里加一枚「连对 N」小标，行内，不浮层。 |
 | F4 | **本次提案** | 答错措辞「差一点，再看看」 | 现状标题「不对哦」。 |
 | F5 | 当前仍存在 | 答错讲原因 + 正确答案 + 红心 | main 已有：错因（why）、「正确答案」、「红心 -1（剩 N 颗），这题稍后再做一次」。原型保留，不算新成果。 |
-| F6 | **本次提案** | 答错只留一种主要动效 | 只留选中卡抖 2 次（±5px，220ms）；碎碎只换静态表情；红心直接更新数值，不再缩放（正式版现有红心缩放动画）。现状卡抖 3px 160ms。 |
+| F6 | **本次提案** | 答错只留一种主要动效 | 只留选中卡抖 2 次（±5px，220ms）；小码只换静态表情；红心直接更新数值，不再缩放（正式版现有红心缩放动画）。现状卡抖 3px 160ms。 |
 | F7 | **本次提案** | 继续按钮统一铜橙 | 现状答错时「继续」是红色危险按钮；这里改铜橙，反馈色只用在面板描边和标题。 |
 | R1 | 当前仍存在 | 减少动态效果 | main 已有 prefers-reduced-motion。原型：开启后取消位移、缩放、飞行、发光呼吸、高光扫过、按钮按下的 1px 下移（按下改用描边表示），只保留颜色变化。 |
 
@@ -60,22 +61,28 @@
 按钮文字颜色以可读为准：浅色用白字、深色用深字，没有预先锁死白字。
 
 ## 修订记录（首轮评审后）
-- 欢迎页默认直达首题；角色名「小码」→「碎碎」（提示按钮的 aria-label 与说明）；继续入口说明改为「从本关第 1 题重新开始」。
+- 欢迎页默认直达首题；继续入口说明改为「从本关第 1 题重新开始」。
+- 角色名：一度改成「碎碎」，老大 11-13 02:06 要求**不要碎碎，就叫小码**，已改回；提示按钮 aria-label 与说明都是「小码」。
 - 老用户地图里随机练习已开放，去掉锁图标；新用户未开放仍显示锁。
 - 答错只留卡片抖动一种动效，红心直接更新数值（不再缩放）。
 - 减少动态效果下，按钮按下的 1px 下移也取消，改用描边表示按下（已读取计算样式确认：正常 `translateY(1px)`，减少动态 `none` + `outline: solid`）。
 - 补 320 宽地图截图，并**实测线路与节点对齐**：线路改为 x 随宽度拉伸、y 固定，量出每个节点中心与线路的水平偏差，320 与 390 全是 0px（首版线路是整体缩放，窄屏会和节点错位）。
 - 「继续」时序改为保留正式版节奏作对照：点「检查」→ 120ms 后揭示结果 → 280ms 后开放「继续」（减少动态下立即）。本轮不改这项行为。
 
+## 修订记录（老大 02:06–02:07 的两条）
+- **关卡节点换成立体六角形**：老大发了截图，指定用这个。源码是分支 `sonnet/design-ink-3d-1`（`a539935`）里的 `hexNode`——投影椭圆、厚度侧面、面、内六边形、顶边高光、上下焊点；当前关铜色虚线环 + 发光，已通关绿色发光，未解锁灰色加锁。原型里按同一结构和类名重做，色值用 main 的令牌（`--g-side`、`--g-hi`、`--g-shadow` 取自该分支）。main 现在是扁平六边形，所以这项标为「本次提案」。
+- **背景电路图加回并加复杂**：首版原型漏掉了它。新生成器（种子固定，布局稳定）：每侧 2 束总线（3–4 根平行线，竖直走线、45° 拐角，各线在不同高度收尾于焊盘）、DIP 芯片（排针、1 脚点、位号）、6 种逻辑门（AND / OR / NOT / NAND / NOR / XOR，可翻转）、电阻 / 电容 / 二极管、过孔、测试点阵列、VCC / GND / CLK / D0 / RST 标注、10 条行进脉冲（减少动态下隐藏）。固定在底层、不随内容滚动；课内只保留很淡的边缘版（总线 + 过孔），不干扰读题。
+- **角色名保持「小码」**：见上一条记录。
+
 ## 已做的检查（模拟，不是真机）
 - Chromium：整条流程自动点一遍（60 项检查，390 / 390 减少动态 / 320×568 三种环境全通过）：欢迎页直达首题、答错反馈内容且无 XP、红心无缩放、答错抖动、答对 +10 与对勾弹出、「继续」时序（正式节奏 / 减少动态立即）、重做提示、「完成本关」、回地图、老 / 新用户地图的锁图标、320 宽无横向溢出、长代码选项滚动提示、无脚本错误。
 - 减少动态效果下：答错抖动、对勾弹出、发光呼吸、进度高光扫过、按钮按下位移全部取消（读取了计算样式）。
-- 截图：`docs/design/flow-prototype/` 下拼图——浅色、深色、深色+减少动态（各含 欢迎 / 地图新用户 / 地图老用户 / 首题 / 答错 / 重做 / 答对 / 长代码选项）、带标注的深色拼图、`sheet-map-320.jpg`（320 与 390 宽的地图并排：新用户、老用户）。
+- 截图（立体六角形 + 新背景已重出）：`docs/design/flow-prototype/` 下拼图——浅色、深色、深色+减少动态（各含 欢迎 / 地图新用户 / 地图老用户 / 首题 / 答错 / 重做 / 答对 / 长代码选项）、带标注的深色拼图、`sheet-map-320.jpg`（320 与 390 宽的地图并排：新用户、老用户）。
 
 ## 没验证的（要如实带着）
 - iPhone Safari / 主屏幕 App 真机；动效手感（时长、曲线）只能真机判断。
 - 键盘弹出状态：本原型没有输入框，不涉及；写代码题的键盘布局不在本轮。
 - 六边形的「加厚 / 高光 / 发光」只在 Chromium 渲染过；iOS Safari 上 `filter: blur` 的发光和 `color-mix` 没验证。
 - 通关页、写代码题、填空题、排序题没做。
-- 正式版里角色名仍是「小码」，原型改「碎碎」只是设计提案，落地时要连同 `src/app.js` 约 10 处文案一起改。
+- 角色名保持「小码」，与正式版一致，无需改文案。注意：#35 的 `docs/16`、`docs/design/onboarding-suisui.html`、`spec/SPEC.md` 决策记录里的「小码→碎碎」与老大这条冲突，需要产品官决定是否撤销。
 - 原型不是正式代码：没有存档、没有真实判题；题目选项是 U1L1 原文，但「答对 / 答错」由选项里的 `ok` 字段决定，不是真实运行 Python。
